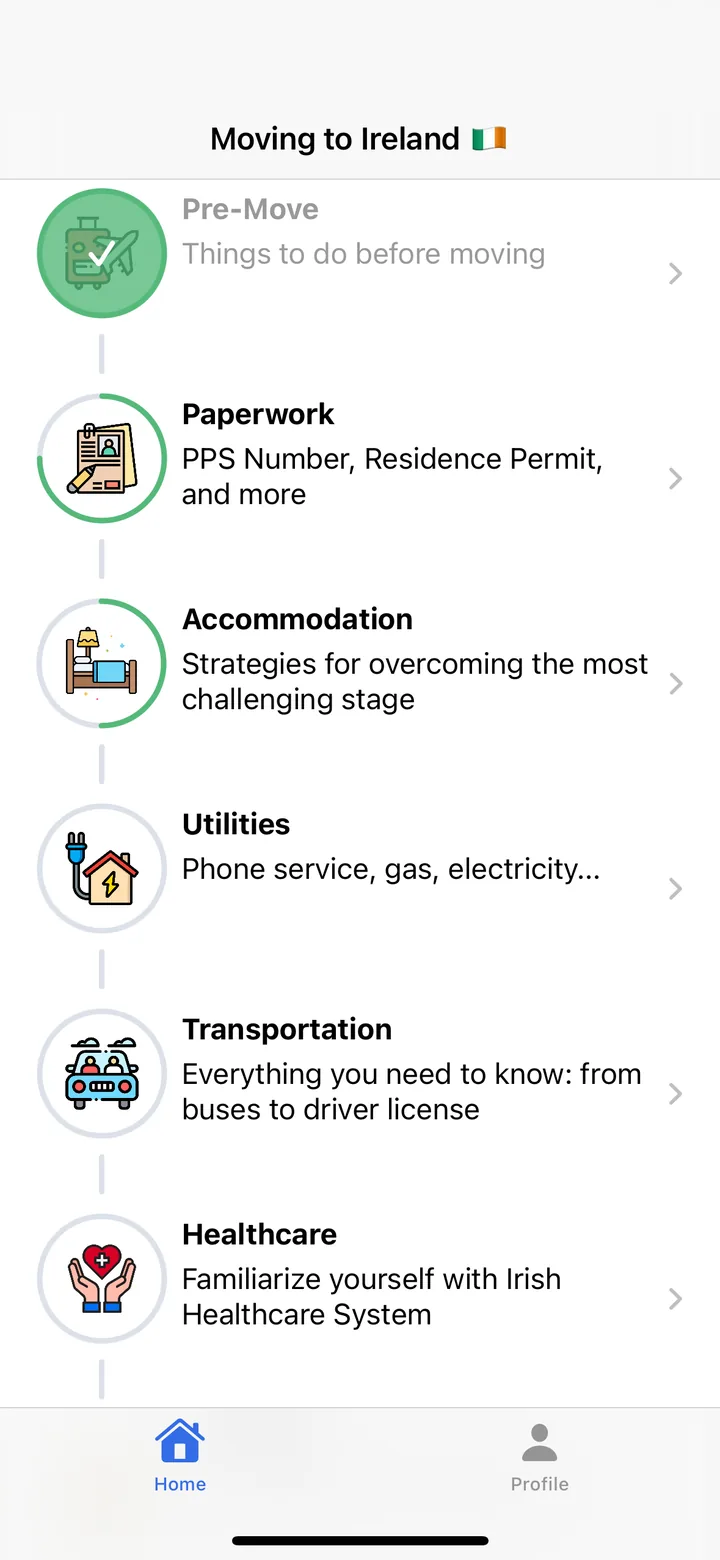
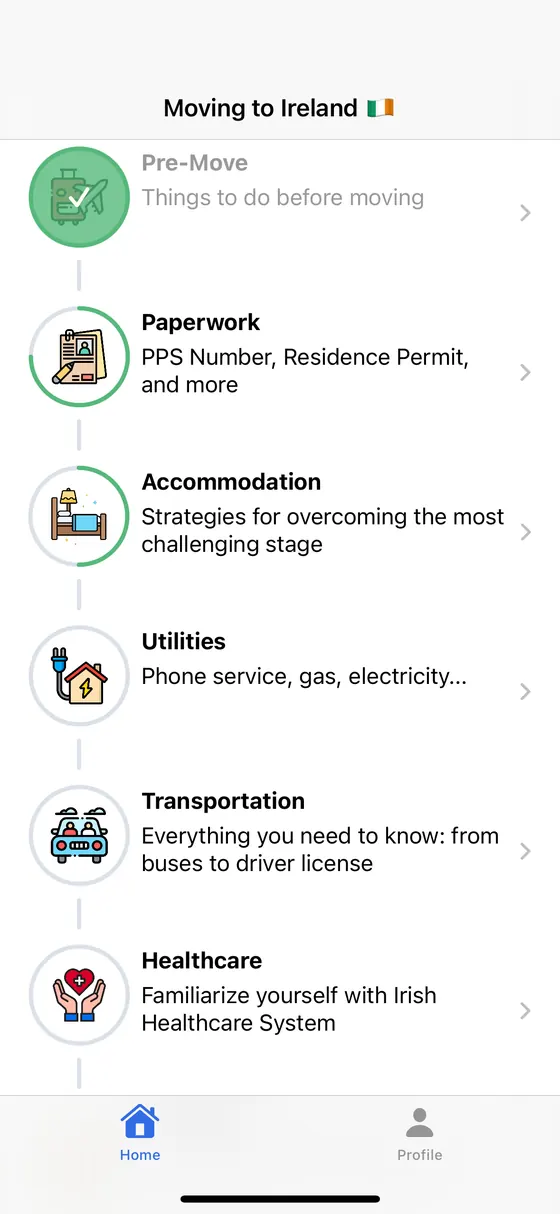
Lift Lighthouse mobile scores: system fonts, contrast, smaller CTA image
The Inter web font's swap re-paint was the LCP on mobile; the system
stack removes the request. Dark green surfaces, an orange tint for small
text on them and darker faint grey clear WCAG AA. CTA screenshot ships
at its 2x rendered size.

Claude-Session: https://claude.ai/code/session_01B1csfQeg49TwrHjdBq1nCg

diff --git a/src/styles/global.css b/src/styles/global.css
@@ -19,16 +19,20 @@
      orange itself is only ~2.4:1. */
   --color-accent-dark: #d9631a;
   --color-accent-text: #b8500f;
+  /* Tint of the orange for small text on the dark green surfaces: 4.9:1. */
+  --color-accent-light: #ffc29a;
 
   --color-ink: #17201b;
   --color-ink-soft: #55625b;
-  --color-ink-faint: #74807a;
+  --color-ink-faint: #5d6963;
   --color-line: #dde7e1;
   --color-surface: #ffffff;
   --color-surface-soft: #f4f8f5;
 
-  --font-sans: 'Inter', -apple-system, BlinkMacSystemFont, 'Segoe UI', Roboto,
-    Helvetica, Arial, sans-serif;
+  /* System stack only. The Inter web font cost ~150 KB and its swap re-paint
+     was the LCP on mobile; the platform UI faces are close enough. */
+  --font-sans: -apple-system, BlinkMacSystemFont, 'Segoe UI', Roboto, 'Helvetica Neue',
+    Arial, sans-serif;
 
   --radius-sm: 8px;
   --radius-md: 12px;
@@ -112,7 +116,7 @@ h2 {
 
 /* The hero band shared by every hub and article page. */
 @utility hero-band {
-  background: linear-gradient(150deg, var(--color-brand) 0%, var(--color-brand-dark) 100%);
+  background: linear-gradient(150deg, var(--color-brand-dark) 0%, #083d27 100%);
   border-bottom: 4px solid var(--color-accent);
   color: #fff;
 }

diff --git a/scripts/build_images.py b/scripts/build_images.py
@@ -42,9 +42,9 @@ def favicons() -> None:
 
 def screenshot() -> None:
     src = Image.open(IMG / "home-screen.png").convert("RGB")
-    w = 720
+    w = 560
     src = src.resize((w, int(src.height * w / src.width)), Image.LANCZOS)
-    src.save(IMG / "home-screen.webp", "WEBP", quality=82, method=6)
+    src.save(IMG / "home-screen.webp", "WEBP", quality=78, method=6)
 
 
 def og_card() -> None:
